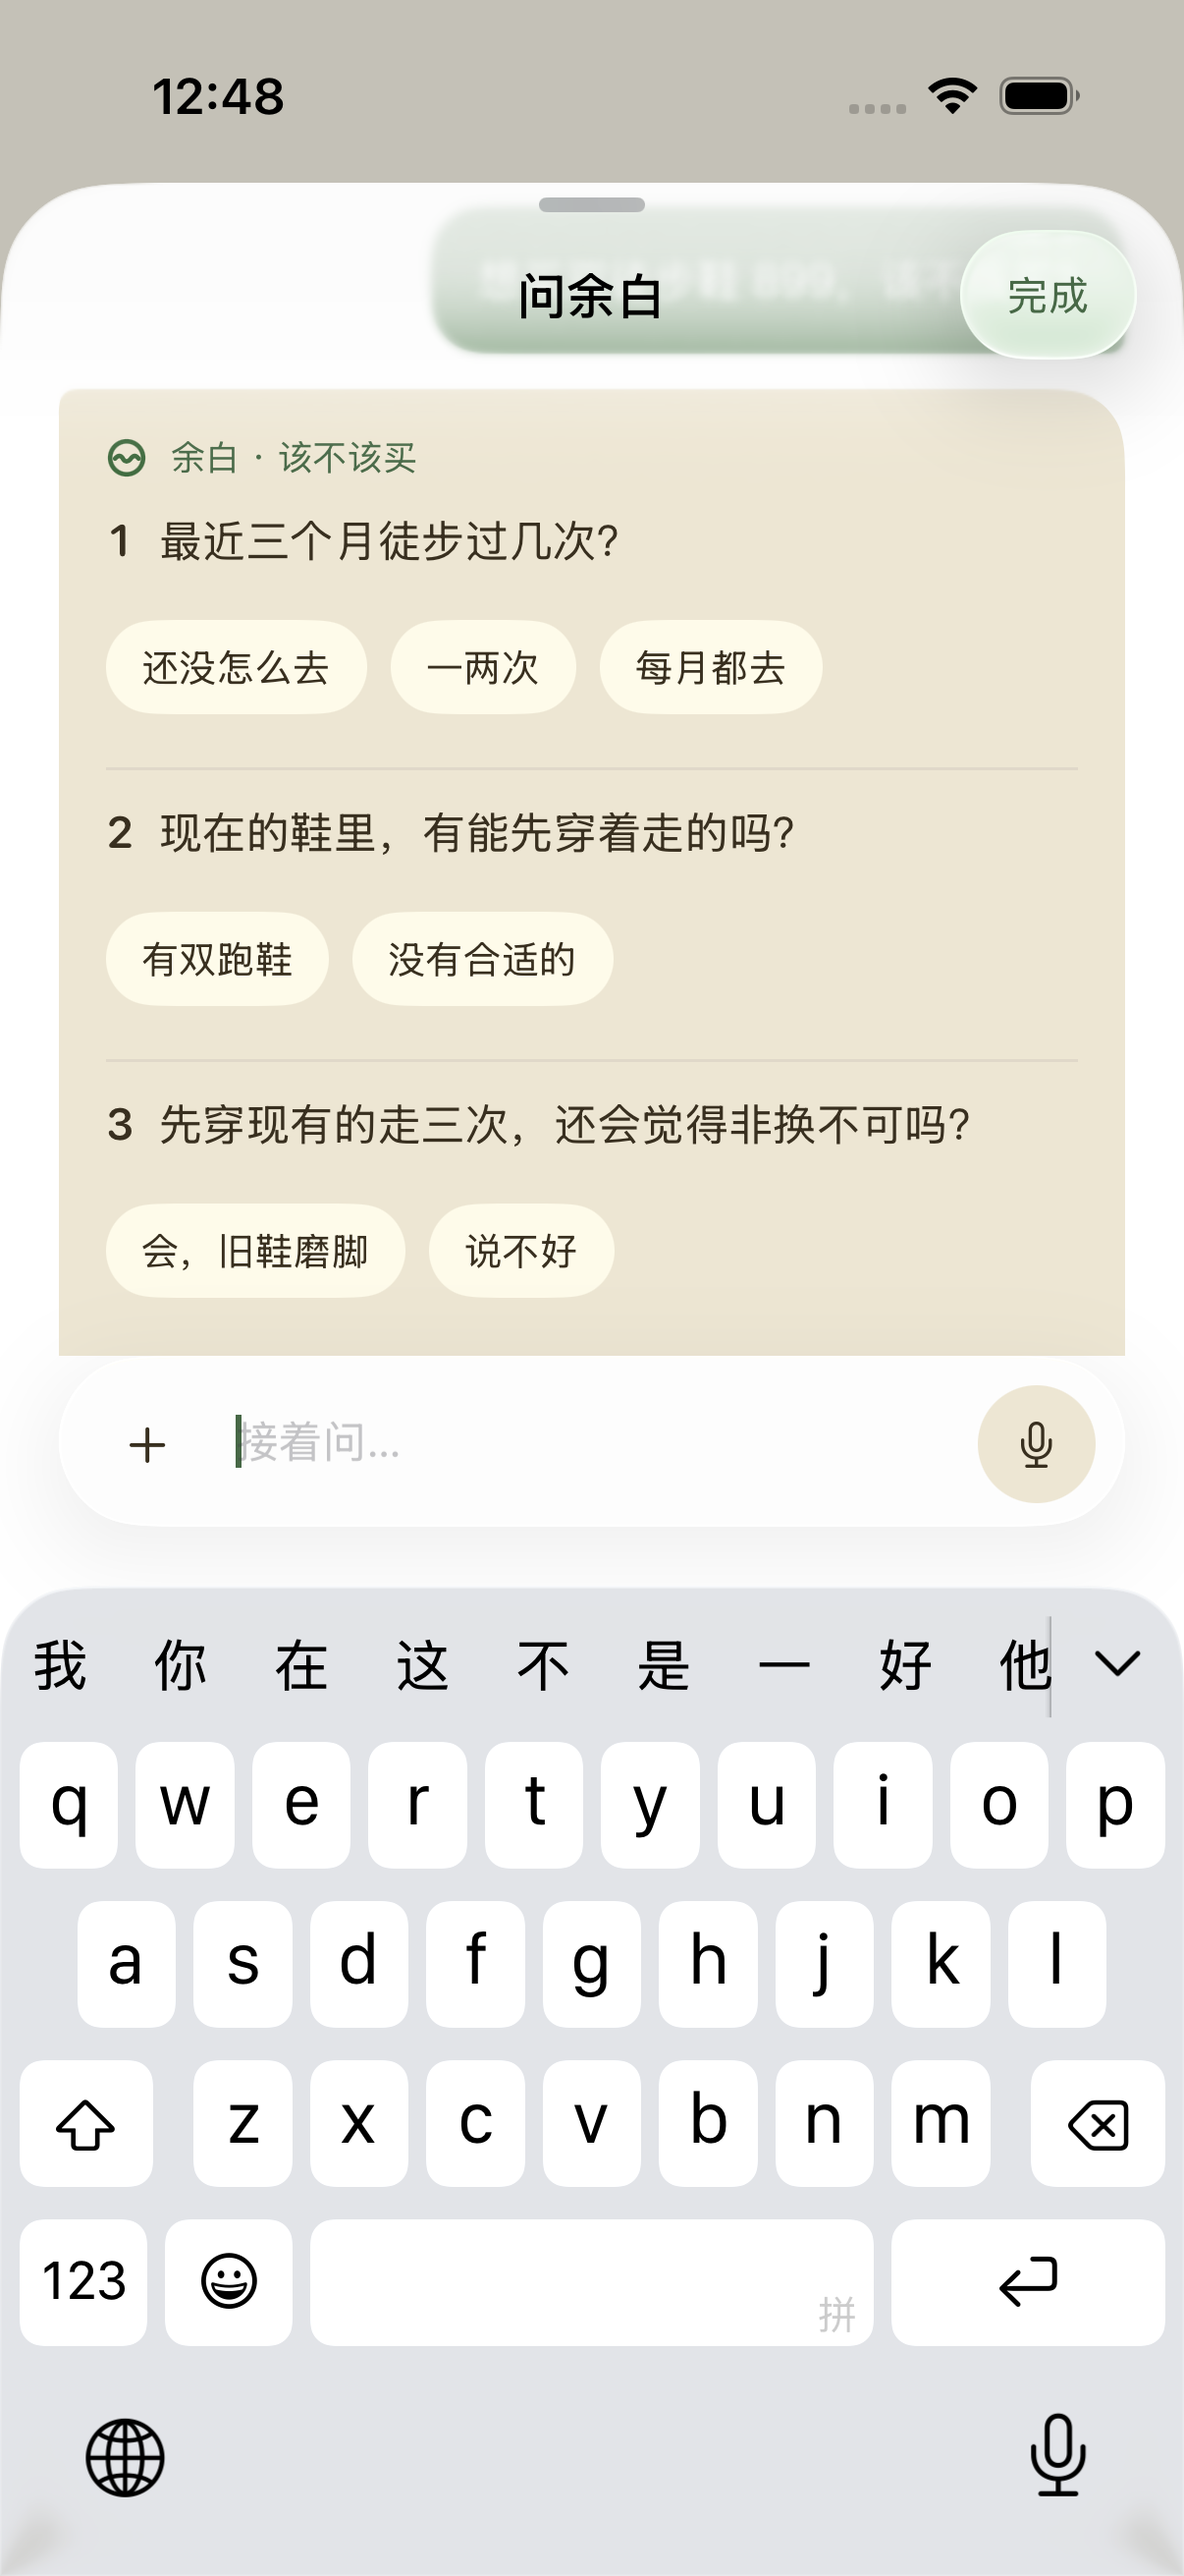
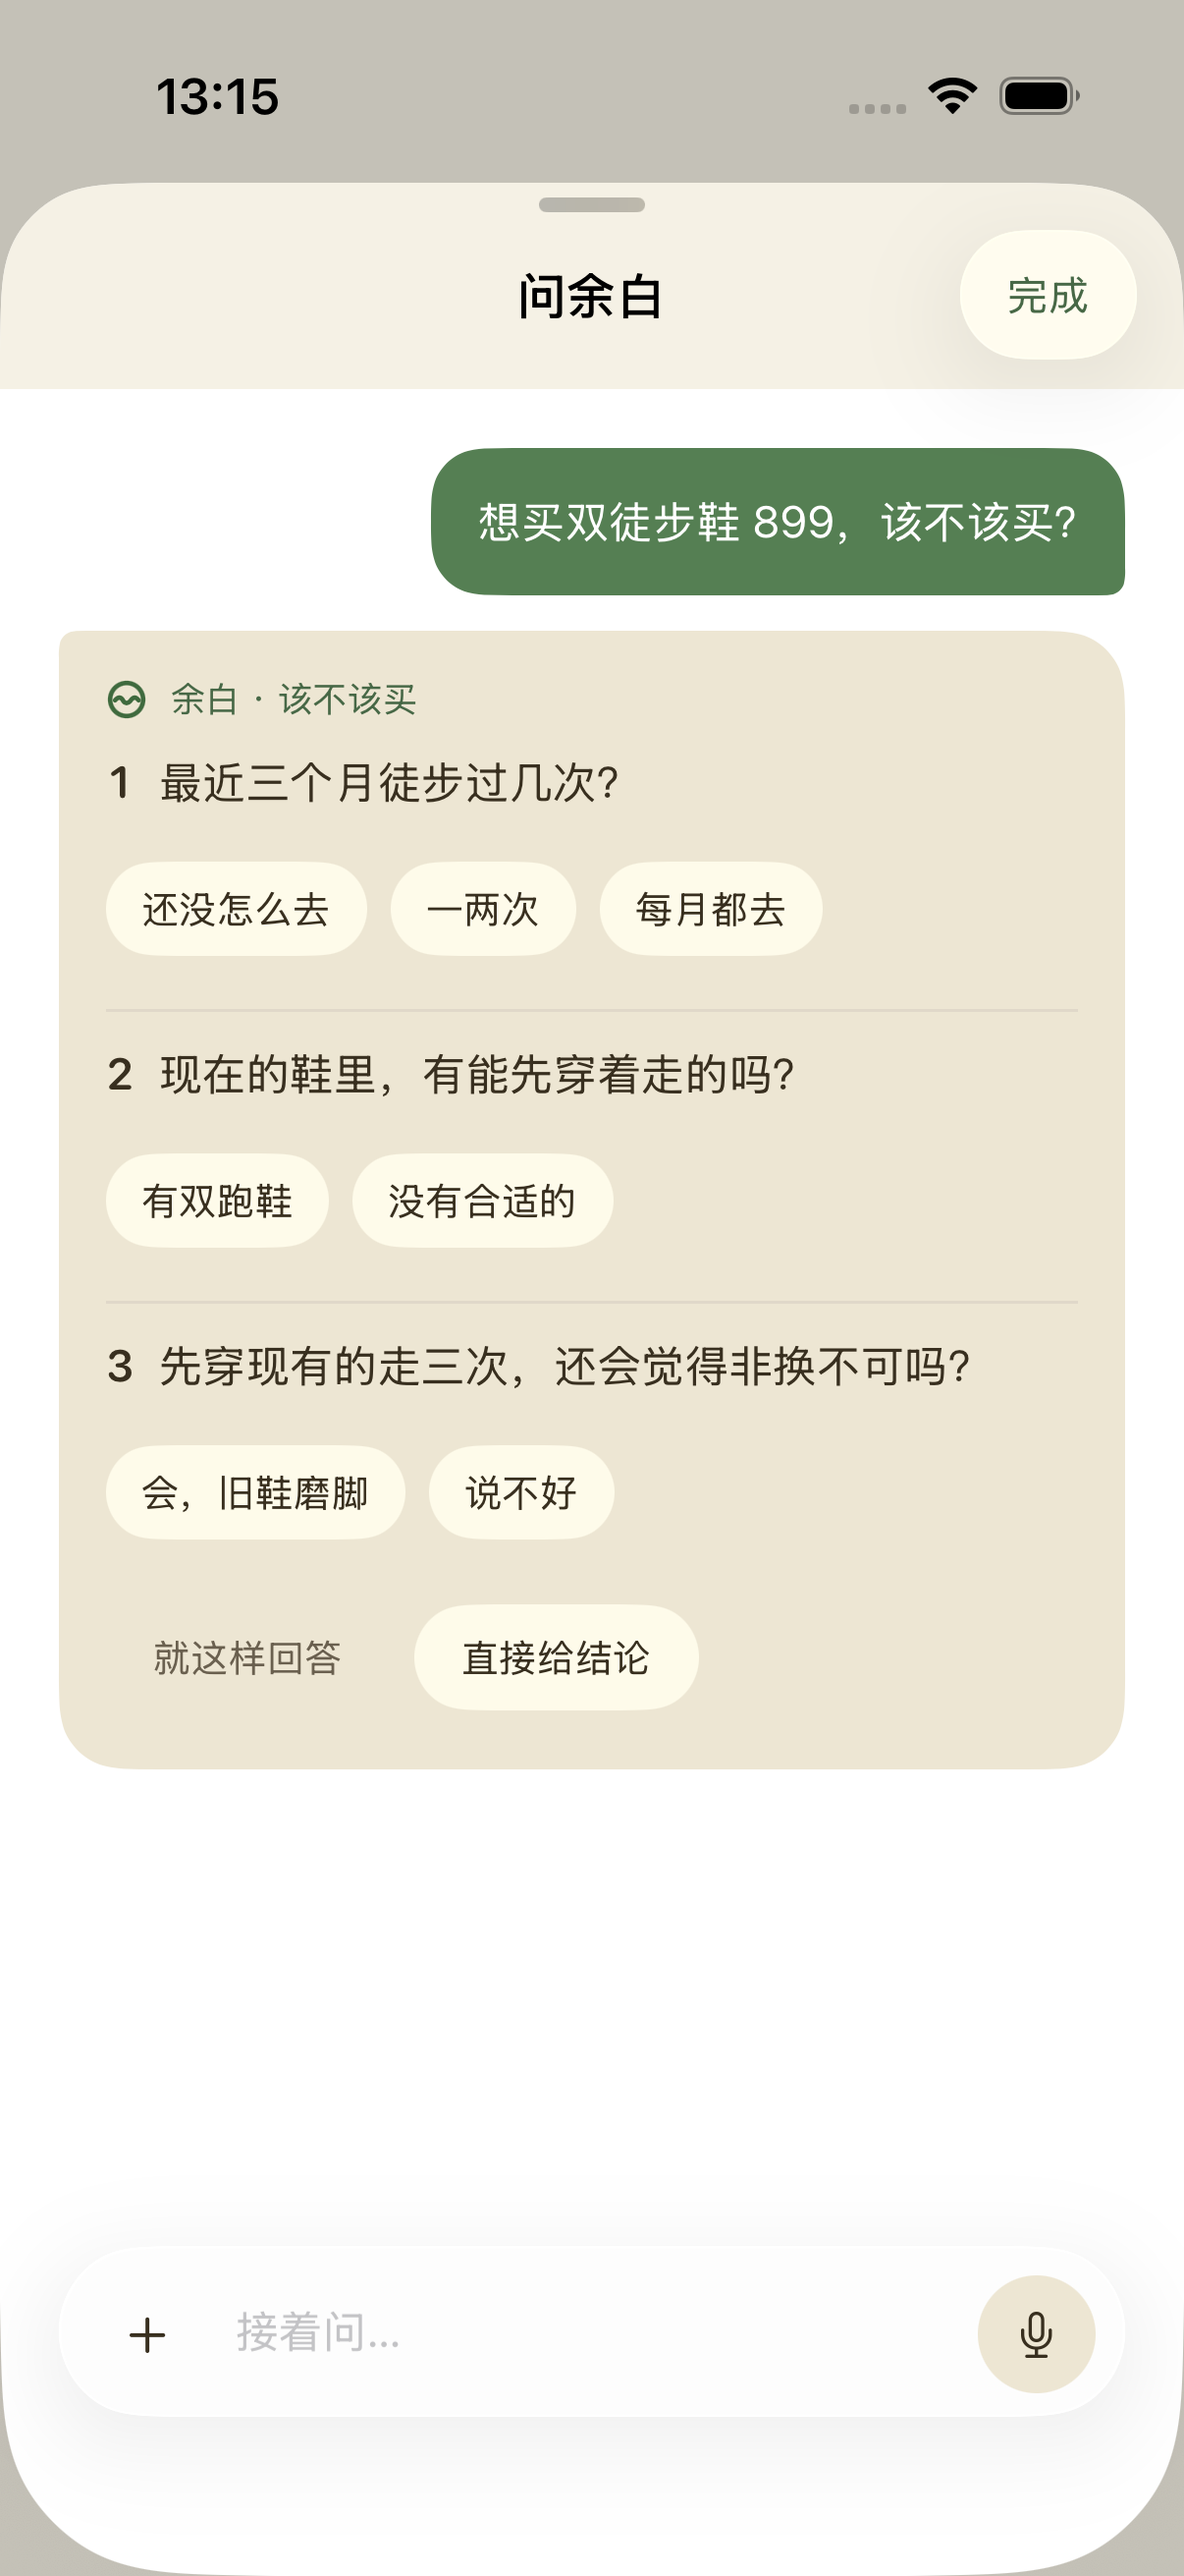
chore: 问余白截图更新为 bb81a8c

diff --git a/.verification/v15/README.md b/.verification/v15/README.md
@@ -5,6 +5,7 @@ feat/butler-saving-core（2a51c45），Debug，iOS 模拟器 iPhone 17 Pro / iOS
 | 文件 | 内容 | 来源 |
 |---|---|---|
 | judge-ask | 问余白 · 徒步鞋 → 三道追问卡 | testJudgeAskScreenshotFixture |
+| judge-ask-answered | 三题选完后（键盘已收起，「就这样回答」可见），bb81a8c | 测试运行时 simctl 录屏抽帧 |
 | judge-wait | 结论：等等再说 | testJudgeWaitScreenshotFixture |
 | judge-buy | 结论：买吧 | testJudgeBuyScreenshotFixture |
 | judge-skip | 结论：先别买（降噪耳机，差 620） | testJudgeSkipScreenshotFixture |
@@ -20,4 +21,4 @@ feat/butler-saving-core（2a51c45），Debug，iOS 模拟器 iPhone 17 Pro / iOS
 | entry-subcategory-row | 记录详情的分类行 | testSubcategoryScreenshotFixture |
 | subcategory-picker | 小项选择 | testSubcategoryScreenshotFixture |
 
-judge-ask 截于三道题出现时；该测试随后在点「就这样回答」时失败（见报告）。
+judge-ask、judge-wait、judge-ask-answered 于 bb81a8c 重截（问余白导航栏改为纸色实底），其余仍为 2a51c45。
